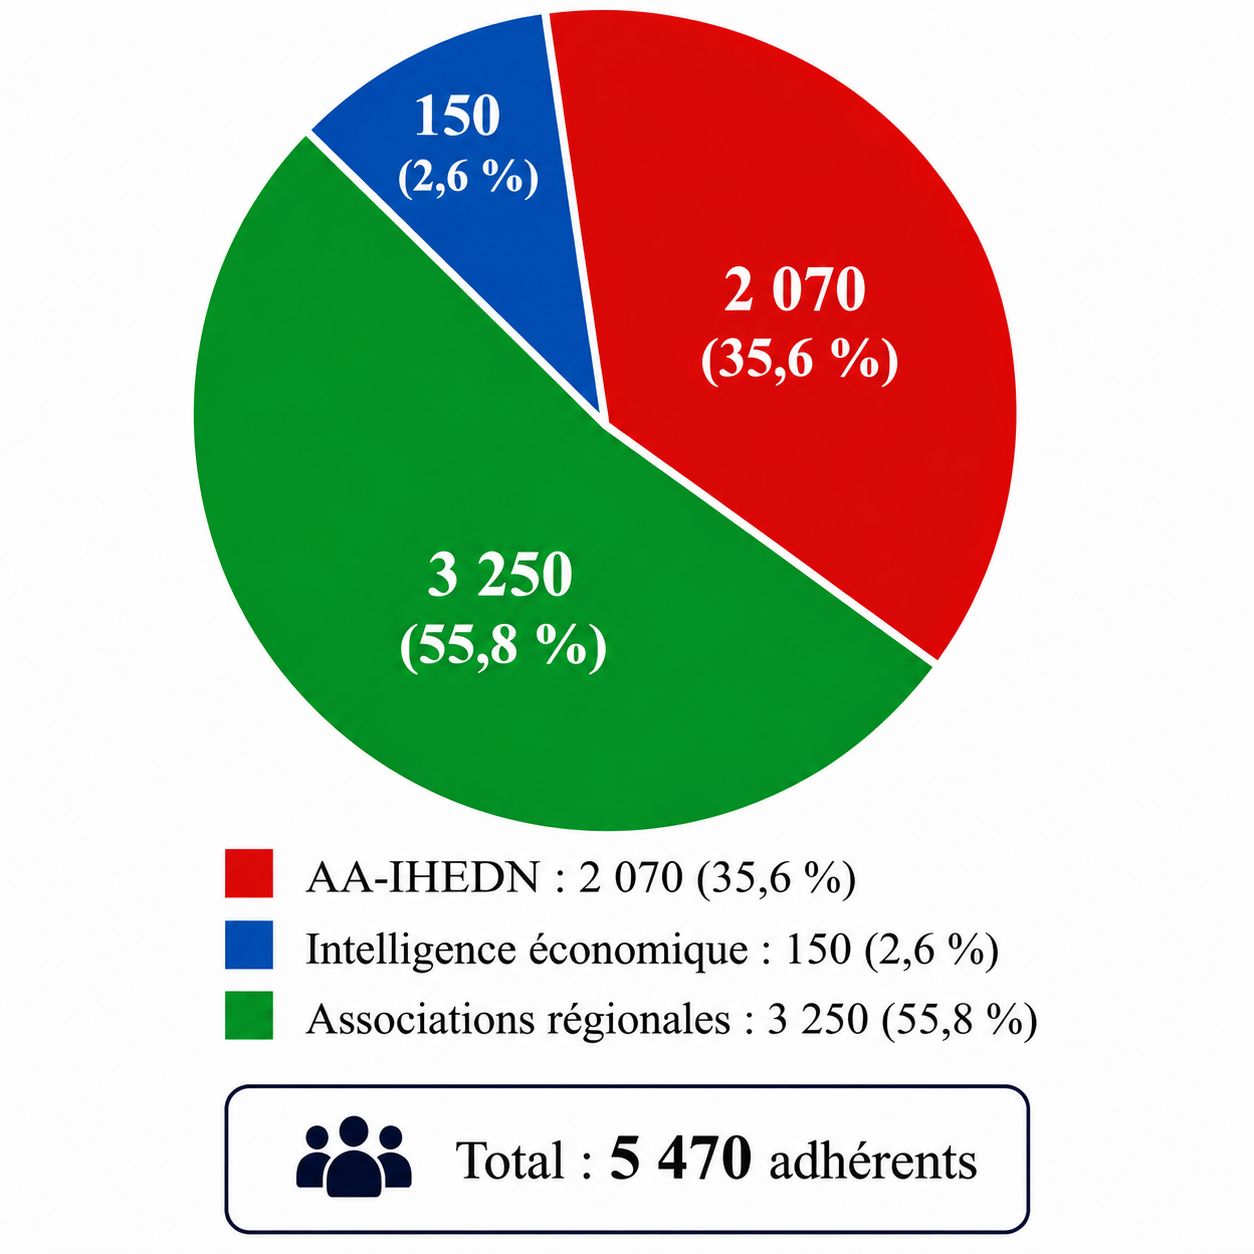
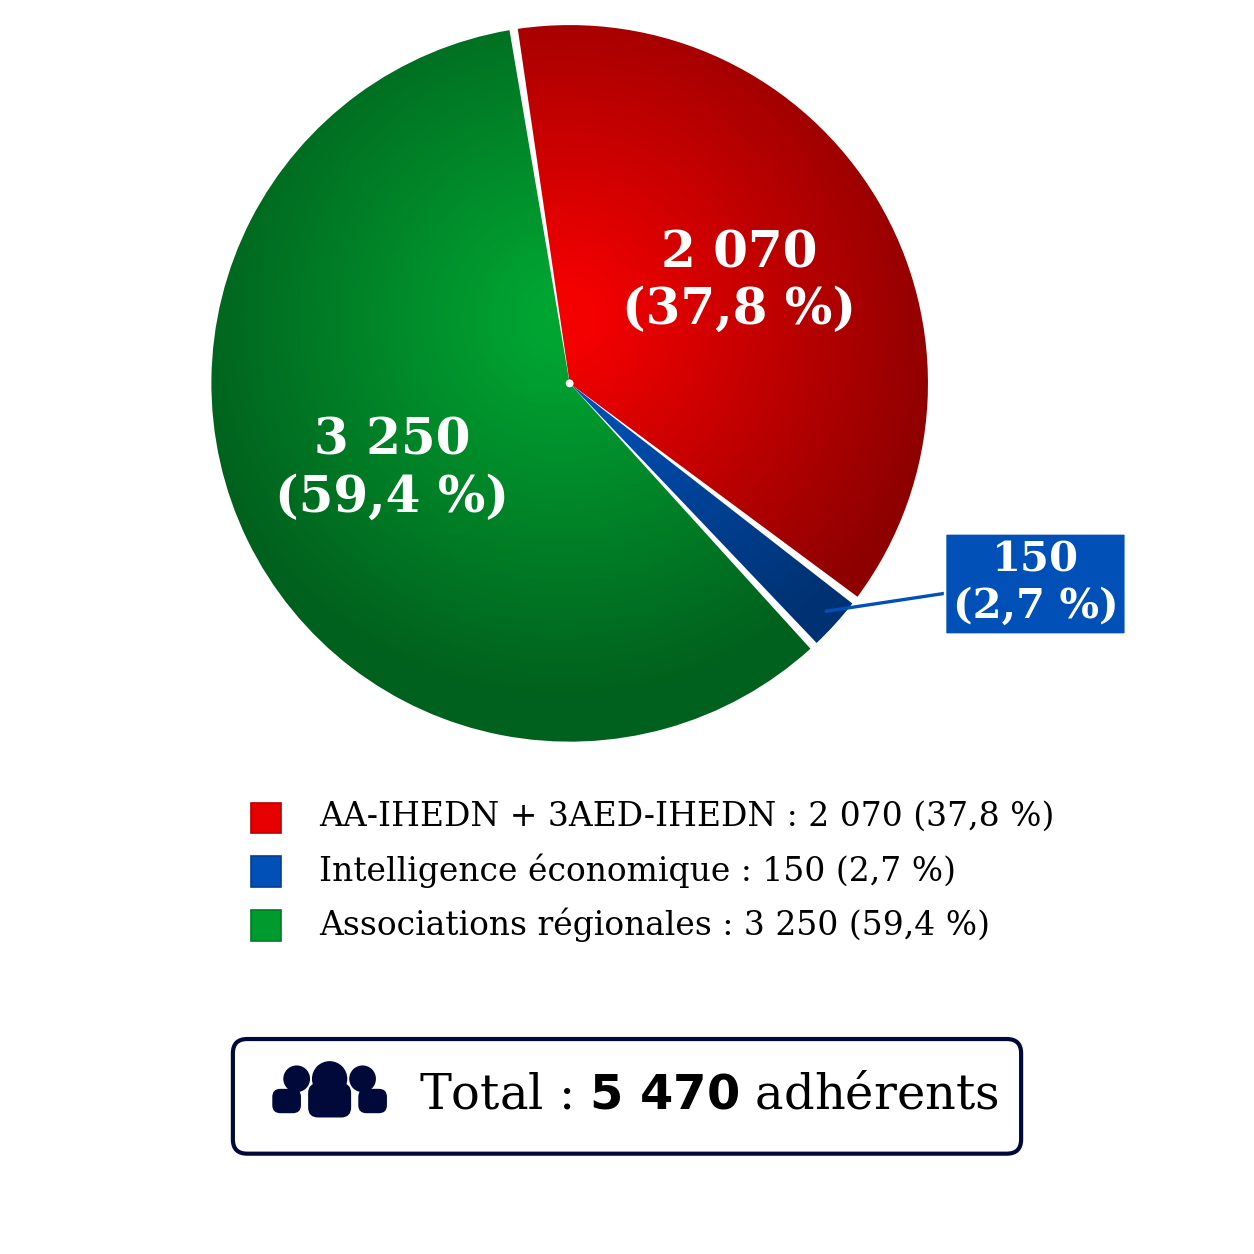
WIP

diff --git a/sections/introduction.tex b/sections/introduction.tex
@@ -27,4 +27,4 @@ C'est dans ce cadre que les échanges relatifs aux travaux du comité se sont ap
 
 L'objectif de ce travail est d'analyser la capacité de contribution des auditeurs IHEDN face aux crises majeures, d'identifier leur plus-value spécifique et de distinguer les formes d'engagement les plus pertinentes, notamment en amont de la crise et dans les démarches de retour d'expérience. Cette analyse conduit également à poser la question d'une connaissance plus précise des profils, des compétences et des disponibilités des membres, condition nécessaire à toute contribution lisible et réaliste. L'exploitation de l'annuaire 2022 apporte ici un premier cadrage : elle permet d'estimer le périmètre associatif disponible, mais confirme aussi qu'un annuaire ne suffit pas à apprécier l'engagement effectif ni les capacités mobilisables.
 
-Dans la suite du rapport, l'expression « \AssociationsUnionIHEDN{} » désigne l'ensemble des associations affiliées à l'\UnionIHEDN{} ; l'expression « \AssociationsRegionalesIHEDN{} » vise plus spécifiquement les associations régionales, dont l'\AssociationRegionaleIDF{} (\ARSeize). Le terme « communauté IHEDN » renvoie, pour sa part, à l'ensemble plus large des anciens auditeurs et membres associés recensés, qu'ils soient ou non adhérents d'une \AssociationUnionIHEDN.
+Dans la suite du rapport, l'expression « \AssociationsUnionIHEDN{} » désigne l'ensemble des associations affiliées à l'\UnionIHEDN{} ; l'expression « \AssociationsRegionalesIHEDN{} » vise plus spécifiquement les associations régionales, dont l'\AssociationRegionaleIDF{} (\ARSeize). Le terme « communauté IHEDN » renvoie, pour sa part, à l'ensemble plus large des auditeurs et membres associés recensés, qu'ils soient ou non adhérents d'une \AssociationUnionIHEDN.

diff --git a/sections/plan_previsionnel.tex b/sections/plan_previsionnel.tex
@@ -50,7 +50,7 @@ Cette organisation suit un cycle complet de projet, de la conception à la valor
 
 \clearpage
 
-\subsection{Organisation des acteurs : une gouvernance en triptyque}
+\subsection{Organisation proposée des acteurs : une gouvernance en triptyque}
 
 Un tel projet nécessite des responsabilités clairement identifiées, afin de garantir un suivi méthodologique rigoureux.
 
@@ -89,7 +89,7 @@ Interprétation & Mauvaise lecture ou instrumentalisation des résultats, pouvan
 \addlinespace
 Participation & Retards ou faibles taux de réponse, compromettant la représentativité des données & Moyenne & Élevé \\
 \addlinespace
-Périmètre & Confusion possible entre le potentiel des adhérents répondants, celui des associations et celui de l'ensemble des anciens auditeurs recensés & Moyenne & Élevé \\
+Périmètre & Confusion possible entre le potentiel des adhérents répondants, celui des associations et celui de l'ensemble des auditeurs recensés & Moyenne & Élevé \\
 \addlinespace
 Ressources & Inadéquation potentielle entre les compétences requises pour assurer la qualité de conception et l'appropriation du questionnaire, et les ressources effectivement mobilisées & Faible & Élevé \\
 \bottomrule

diff --git a/sections/positionnement_ar16.tex b/sections/positionnement_ar16.tex
@@ -1,10 +1,19 @@
 \subsection{Une contribution indirecte mais stratégique}
 
+%%%%%
+% La réflexion doit se faire en trois niveaux :
+% - Celui de l'association : organiser des actions en faisant contribuer ses membres
+% - les membres (faire partie d'une réserve ou agir sous couvert de l'association)
+% - Les auditeurs
+% cf. Mail de bruno du 11/06/2026
+%%%%%
+
 Les travaux du comité conduisent à poser le cadre de départ suivant :
 
 \begin{quote}
 \textbf{L'\ARSeize{} n'a pas vocation à gérer directement les crises, mais à s'y préparer, à accompagner les acteurs concernés dans son champ de compétence et à participer aux retours d'expérience.}
 \end{quote}
+
 
 Ce positionnement conduit à se situer en complément des dispositifs existants, sans chercher à s'y substituer. L'apport possible de l'association doit donc être envisagé au regard des missions exercées par les autorités publiques, en identifiant les domaines où les compétences des auditeurs peuvent utilement renforcer la préparation, la diffusion d'une culture stratégique, l'analyse ou le retour d'expérience.
 

diff --git a/main.tex b/main.tex
@@ -53,9 +53,15 @@
 
 \input{sections/resume.tex}
 
+\listofpropositions
+
 \clearpage
 
 \tableofcontents
+
+\clearpage
+
+\printglossary[type=\acronymtype,title={Liste des acronymes}]
 
 \clearpage
 \addcontentsline{toc}{section}{Table des figures}
@@ -72,10 +78,6 @@
 \makeatother
 \listoftables
 \endgroup
-
-\clearpage
-
-\listofpropositions
 
 \clearpage
 
@@ -169,10 +171,6 @@
 \label{annexe:maquette_questionnaire}
 
 \input{annexes/maquette_questionnaire.tex}
-
-\clearpage
-
-\printglossary[type=\acronymtype,title={Liste des acronymes}]
 
 \clearpage
 

diff --git a/CR_23_04_2026.tex b/CR_23_04_2026.tex
@@ -117,7 +117,7 @@ Cette structuration s'inscrit dans une logique de cycle complet de projet, allan
 
 \clearpage
 
-\subsection{Organisation des acteurs : une gouvernance en triptyque}
+\subsection{Organisation proposée des acteurs : une gouvernance en triptyque}
 
 Un tel projet nécessite la mise en place de processus et d'entités identifiés clairement de manière à garantir un suivi méthodologique optimal.
 

diff --git a/notes_contextuelles/synthese_notes_remarques_relecteur.md b/notes_contextuelles/synthese_notes_remarques_relecteur.md
@@ -1,0 +1,121 @@
+# Synthèse fusionnée des notes et remarques de relecture
+
+Ce document fusionne les éléments de `notes.txt` et de `tri_remarques_relecteur.md`.
+Il vise à constituer une base de travail unique, sans modifier les fichiers sources.
+
+## Principes d'arbitrage
+
+Les remarques de relecture doivent être prises en compte de manière sélective. Les corrections typographiques, terminologiques et de lisibilité sont à intégrer. Les remarques portant sur des données chiffrées ou historiques doivent en revanche être vérifiées avant toute correction de fond.
+
+Le rapport doit conserver une posture institutionnelle prudente : l'AR 16 peut contribuer à la préparation, à la diffusion d'une culture de résilience, à la cartographie des compétences et au retour d'expérience, sans se substituer aux autorités publiques ni laisser entendre qu'elle gère directement les crises.
+
+## Priorités éditoriales
+
+1. Harmoniser la terminologie autour d'"auditeurs" plutôt qu'"anciens auditeurs", sauf dans les citations, titres officiels, références bibliographiques ou dénominations historiques.
+2. Reclasser les propositions 6 et 9, qui relèvent davantage de conditions de mise en oeuvre, de facteurs de réussite ou de principes d'exploitation durable que de propositions autonomes.
+3. Corriger les points typographiques simples : virgule avant "et", espace manquant après IHEDN, pluriel de DMD.
+4. Améliorer la lisibilité des tableaux et figures.
+5. Vérifier les points chiffrés ou historiques avant correction : total à 94 %, tranches de sessions, borne de 1971, dates des sessions.
+
+## Points à intégrer directement
+
+| Point | Action recommandée |
+| --- | --- |
+| Table des figures et liste des tableaux | Les déplacer en fin de document, à proximité de la liste des acronymes, si l'objectif est d'alléger les pages liminaires. |
+| Résumé et liste des propositions | Les présenter sur la même page si la mise en page le permet, afin d'améliorer la lecture synthétique du rapport. |
+| PCS/PICS | Supprimer l'un des deux développements in extenso afin d'éviter la redondance avec la liste des acronymes. Le rapport utilise `PICS`, non `PCIS`. |
+| Temporalité de la contribution | Ajouter explicitement la mention "en amont" lorsque le rapport décrit le positionnement stratégique de l'AR 16, puis maintenir la distinction avec l'aval de crise. |
+| Journée nationale de la résilience | Citer la Journée nationale de la résilience du 13 octobre 2026 comme exemple possible de participation, de relais ou de contribution à une initiative existante. |
+| DMD | Employer le pluriel lorsque le propos vise plusieurs délégués militaires départementaux : "les DMD" ou "des DMD". |
+| Phase 1 du questionnaire | Préciser que la phase 1 concerne le bureau et le CODIR de l'AR 16, le cas échéant en articulation avec l'Union-IHEDN. |
+| Terme "Invalidation" | Remplacer ou reformuler ce terme s'il donne une impression trop abrupte ou définitive. |
+
+## Propositions à reclasser
+
+| Proposition ou encadré | Arbitrage | Traitement recommandé |
+| --- | --- | --- |
+| Proposition 6 : garantir un encadrement méthodologique et juridique du questionnaire | Ne pas supprimer le contenu, mais ne pas le présenter comme proposition autonome. | Reclasser comme condition de mise en oeuvre de la proposition relative au questionnaire. |
+| Proposition 9 : inscrire le questionnaire dans une démarche durable et exploitable | Ne pas supprimer le contenu, mais éviter une proposition autonome artificielle. | Reclasser comme facteur clef de succès, principe d'exploitation ou point de vigilance. |
+| Encadré final signalé comme "fausse proposition" | À reprendre. | Dénuméroter ou transformer en condition de réussite, en modalité ou en vigilance méthodologique. |
+
+## Figures, tableaux et annexes
+
+| Élément | Action recommandée |
+| --- | --- |
+| Figure "Quatre cercles structurant l'action de l'IHEDN" | Réduire la taille et envisager un déplacement en annexe. |
+| Figure "Chaîne opérationnelle de gestion de crise" | Déplacer en annexe si elle alourdit le corps du rapport. |
+| Figure relative à la gouvernance du questionnaire | Renommer en "Organisation proposée de la gouvernance du projet de questionnaire", réduire la taille et envisager un déplacement en annexe. |
+| Calendrier prévisionnel de mise en oeuvre du questionnaire de cartographie des compétences des membres de l'AR 16 | Déplacer en annexe si le corps du rapport doit rester plus resserré. |
+| Tableau "Cartographie des risques du projet" | Réduire ou revoir la mise en page. |
+| Tableau p. 15 | Rééquilibrer les largeurs de colonnes pour améliorer la lisibilité. |
+
+## Données et graphiques à vérifier avant correction
+
+| Élément | Point de vigilance | Action recommandée |
+| --- | --- | --- |
+| Répartition par catégorie totalisant 94 % | Ne pas corriger arbitrairement les pourcentages pour atteindre 100 %. | Vérifier les données sources. Si les 6 % correspondent à des non-renseignés, autres catégories ou arrondis, l'indiquer en légende ou en note. |
+| Première date AA en 1971 alors que la création date de 1936 | Ne pas remplacer automatiquement 1971 par 1936. | Vérifier si 1971 correspond au début des données exploitables, à une borne de cohorte, à un choix graphique ou à une erreur. |
+| Tranches de sessions | Harmonisation à envisager avec réserve. | Harmoniser les tranches seulement si la comparaison reste méthodologiquement correcte. |
+| Dates des sessions | À ajouter uniquement après vérification. | Ajouter les dates dans les diagrammes si elles sont fiables et utiles à la lecture. |
+
+## Points spécifiques sur les graphiques d'adhésion
+
+### Sessions régionales
+
+Titre actuel ou envisagé :
+"Évolution du taux d'adhésion des auditeurs des sessions régionales selon les cohortes de sessions".
+
+Actions à prévoir :
+
+- retirer la période "(1954-1988)" du titre si elle brouille la lecture ;
+- signaler que les auditeurs des sessions régionales 200 à 222 sont majoritairement adhérents, ce qui indique que les auditeurs les plus récents adhèrent davantage ;
+- faire commencer le dernier intervalle à 201 si cela correspond aux données ;
+- ajouter les années au niveau des diagrammes pour améliorer la lecture ;
+- vérifier et, si utile, mentionner que la 151e session régionale s'est tenue de novembre 2002 au 16 janvier 2003.
+
+### Sessions nationales
+
+Titre actuel ou envisagé :
+"Évolution du taux d'adhésion des auditeurs des sessions nationales selon les décennies".
+
+Actions à prévoir :
+
+- préciser qu'il s'agit du taux d'adhésion observé aujourd'hui, ce qui explique que le taux diminue à mesure que les cohortes sont anciennes ;
+- formuler l'interprétation de manière explicite, par exemple : "42 % des auditeurs de la période 2001-2010 sont adhérents en 2022", si ce chiffre est bien confirmé par les données.
+
+### Répartition territoriale
+
+Titre actuel ou envisagé :
+"Répartition territoriale des associations régionales de l'Union-IHEDN et importance relative de leurs effectifs".
+
+Action à prévoir :
+
+- ajouter que le numéro associé sur la carte ou le graphique correspond au numéro des associations régionales.
+
+## Formulations à privilégier
+
+Pour la Journée nationale de la résilience :
+
+> L'AR 16 pourrait contribuer, dans le cadre d'initiatives existantes telles que la Journée nationale de la résilience du 13 octobre, à relayer des messages de sensibilisation, à diffuser des supports institutionnels et à participer à la consolidation d'une culture partagée de préparation aux crises.
+
+Pour le questionnaire :
+
+> Le questionnaire constitue moins une fin en soi qu'un instrument de cartographie, de structuration et de projection stratégique des compétences disponibles au sein de l'AR 16.
+
+Pour les propositions reclassées :
+
+> Ces éléments ne constituent pas des propositions autonomes, mais des conditions de réussite nécessaires à la mise en oeuvre, à la sécurisation et à l'exploitation durable du questionnaire.
+
+## Points à ne pas appliquer mécaniquement
+
+| Remarque | Raison |
+| --- | --- |
+| Supprimer purement et simplement les propositions 6 et 9 | Leur statut doit être modifié, mais leur contenu reste utile. |
+| Corriger les pourcentages pour atteindre 100 % | Une correction numérique sans retour aux données sources fragiliserait le rapport. |
+| Remplacer automatiquement 1971 par 1936 | La date de création de l'IHEDN ne suffit pas à déterminer la borne pertinente de la série statistique. |
+| Supprimer toutes les occurrences d'"anciens" sans distinction | Certaines occurrences peuvent relever de citations, titres officiels ou références. |
+| Transformer tous les sous-éléments du questionnaire en propositions autonomes | Le rapport gagnera en clarté avec une liste de propositions resserrée. |
+
+## Conclusion opérationnelle
+
+Le rapport ne nécessite pas une réécriture générale à partir de ces remarques. Les actions les plus utiles relèvent d'un resserrement éditorial, d'une clarification méthodologique, d'une meilleure hiérarchisation des propositions et d'une harmonisation terminologique. Les corrections de fond liées aux données doivent être précédées d'une vérification explicite des sources.

diff --git a/notes_contextuelles/tri_remarques_relecteur.md b/notes_contextuelles/tri_remarques_relecteur.md
@@ -1,0 +1,55 @@
+# Arbitrage des remarques de relecture
+
+Note établie en posture de relecture, à partir du rapport LaTeX et non de la seule liste de remarques. Elle distingue les points qui doivent réellement être pris en compte, ceux qui doivent être pris en compte avec réserve, et ceux qu'il ne faut pas appliquer tels quels.
+
+## Synthèse
+
+La majorité des remarques doit être prise en compte, mais pas toujours sous la forme proposée. Les corrections typographiques, terminologiques et de lisibilité sont à intégrer. Les remarques sur les propositions sont fondées : certaines propositions relèvent davantage de conditions de mise en oeuvre du questionnaire que de décisions autonomes. En revanche, les remarques portant sur des données chiffrées ou historiques ne doivent pas conduire à corriger directement le fond sans vérification des sources.
+
+## À prendre réellement en compte
+
+| Remarque | Décision de relecture | Action recommandée |
+| --- | --- | --- |
+| p. II : déplacer la table des figures et la liste des tableaux en fin de document avec la liste des acronymes. | À prendre en compte. | Déplacer `\listoffigures` et `\listoftables` vers la fin du document, à proximité de la liste des acronymes. Cela allège les pages liminaires et rend la table des matières plus directe. |
+| p. VI : les propositions 6 et 9 ne sont pas de vraies propositions. | À prendre en compte. | Reclasser la proposition 6, `Garantir un encadrement méthodologique et juridique du questionnaire`, comme condition de mise en oeuvre de la proposition 4. Reclasser la proposition 9, `Inscrire le questionnaire dans une démarche durable et exploitable`, comme facteur de réussite ou principe d'exploitation. |
+| p. 8 : supprimer l'un des deux développements in extenso de PCS/PICS. | À prendre en compte. | Éviter la redondance entre le développement des sigles dans le texte et la liste des acronymes. Le rapport utilise `PICS`, non `PCIS` : la remarque doit être comprise comme visant `PICS`. |
+| p. 9 : supprimer la virgule avant le "et". | À prendre en compte. | Corriger la ponctuation de la phrase concernée. C'est une correction de style sans incidence sur le fond. |
+| p. 10 : ajouter "en amont" et remplacer la virgule entre "stratégique" et "identification" par "et". | À prendre en compte. | La proposition de positionnement doit mieux marquer la temporalité : contribution principalement en amont, puis en aval. La correction est cohérente avec l'argument central du rapport. |
+| p. 11 : citer la Journée nationale de la résilience du 13 octobre. | À prendre en compte. | Ajouter cet exemple dans les actions de sensibilisation, sous une formulation prudente : participation, relais ou contribution à une initiative existante, sans laisser entendre que l'AR 16 pilote le dispositif. |
+| p. 15 : rééquilibrer les largeurs de colonnes. | À prendre en compte. | Revoir le tableau concerné pour améliorer la lisibilité. La correction est formelle et ne change pas la démonstration. |
+| p. 20 : supprimer la notion d'"anciens" dans le document. | À prendre en compte dans le texte rédactionnel. | Remplacer "anciens auditeurs" par "auditeurs" dans le propos courant. La terminologie "auditeurs IHEDN" est plus juste et plus institutionnelle. |
+| p. 20 : espace manquant après IHEDN. | À prendre en compte. | Corriger l'espace manquant. |
+| p. 23 : supprimer "anciens" et revoir l'encadré qualifié de fausse proposition. | À prendre en compte. | Supprimer "anciens" dans le texte courant et dénuméroter l'encadré si celui-ci correspond à une condition méthodologique plutôt qu'à une proposition autonome. |
+| p. 24 : mettre DMD au pluriel. | À prendre en compte. | Écrire "les DMD" ou "des DMD", car le propos vise un partenariat potentiel avec plusieurs délégués militaires départementaux. |
+| p. 25 : préciser que la phase 1 concerne le bureau et le CODIR de l'AR 16. | À prendre en compte. | Lever l'ambiguïté de la formule `Bureau, CODIR` en précisant les instances concernées : bureau et CODIR de l'AR 16, le cas échéant en articulation avec l'Union-IHEDN. |
+| p. 29 : l'encadré final n'est pas une vraie proposition. | À prendre en compte. | Transformer la proposition 9 en facteur clef de succès, point de vigilance ou condition d'exploitation durable. Le contenu doit rester, mais ne doit plus être numéroté comme proposition autonome. |
+
+## À prendre en compte avec réserve
+
+| Remarque | Décision de relecture | Action recommandée |
+| --- | --- | --- |
+| p. 16 : le total de la répartition par catégorie ne donne que 94 %. | À traiter, mais sans corriger arbitrairement les chiffres. | Vérifier les données sources des graphiques. Si les 6 % correspondent à des non-renseignés, autres catégories ou arrondis, l'indiquer dans la légende ou dans une note. Ne pas modifier les pourcentages pour obtenir artificiellement 100 %. |
+| p. 17 : faire les mêmes tranches que pour l'AA et préciser les dates des sessions. | À prendre en compte si les données le permettent. | Harmoniser les tranches seulement si la comparaison reste méthodologiquement correcte. Ajouter les dates des sessions uniquement si elles sont vérifiées. |
+| p. 18 : pourquoi une première date AA en 1971 alors que la création date de 1936 ? | À traiter par une explication, pas par une correction immédiate. | Vérifier ce que représente 1971 : début des données exploitables, borne de cohorte, choix graphique ou erreur. Si 1971 est justifié par la source, l'expliquer. Si c'est une erreur, corriger après vérification. |
+
+## À ne pas appliquer tels quels
+
+| Remarque | Décision de relecture | Raison |
+| --- | --- | --- |
+| Supprimer purement et simplement les propositions 6 et 9. | Ne pas appliquer tel quel. | Le relecteur a raison sur leur statut, mais pas nécessairement sur leur suppression. Ces passages contiennent des précautions importantes : méthode, RGPD, exploitabilité, durabilité. Il faut les reclasser, non les supprimer. |
+| Corriger les pourcentages de la figure pour atteindre 100 %. | Ne pas appliquer. | Une correction numérique sans retour aux données sources fragiliserait le rapport. L'écart doit être expliqué ou documenté. |
+| Remplacer automatiquement 1971 par 1936. | Ne pas appliquer. | La date de création de l'IHEDN ne suffit pas à déterminer la première date pertinente d'une série statistique relative aux auditeurs, adhérents ou sessions. |
+| Supprimer toutes les occurrences d'"anciens" sans distinction. | Ne pas appliquer mécaniquement. | Le terme doit être retiré du texte rédactionnel courant, mais il peut devoir rester dans une citation, un titre officiel, une référence bibliographique ou une dénomination historique. |
+| Transformer tous les sous-éléments du questionnaire en propositions autonomes. | Ne pas appliquer. | Le rapport gagnera en clarté si la liste des propositions est resserrée autour de quelques orientations fortes, les autres éléments étant présentés comme modalités, conditions ou facteurs de vigilance. |
+
+## Conclusion de relecture
+
+Les corrections réellement prioritaires sont les suivantes :
+
+1. Harmoniser la terminologie autour d'"auditeurs" plutôt qu'"anciens auditeurs".
+2. Reclasser les propositions 6 et 9 pour éviter une liste de propositions artificiellement étendue.
+3. Corriger les points typographiques simples : virgule, espace, pluriel de DMD.
+4. Améliorer la lisibilité des tableaux et déplacer, si souhaité, les listes de figures et tableaux en fin de document.
+5. Vérifier les points chiffrés ou historiques avant toute correction de fond : total à 94 %, tranches de sessions, borne de 1971.
+
+Le rapport ne doit pas être réécrit en profondeur sur la base de ces remarques. Les observations utiles relèvent surtout d'un resserrement éditorial, d'une clarification méthodologique et d'une harmonisation terminologique.
